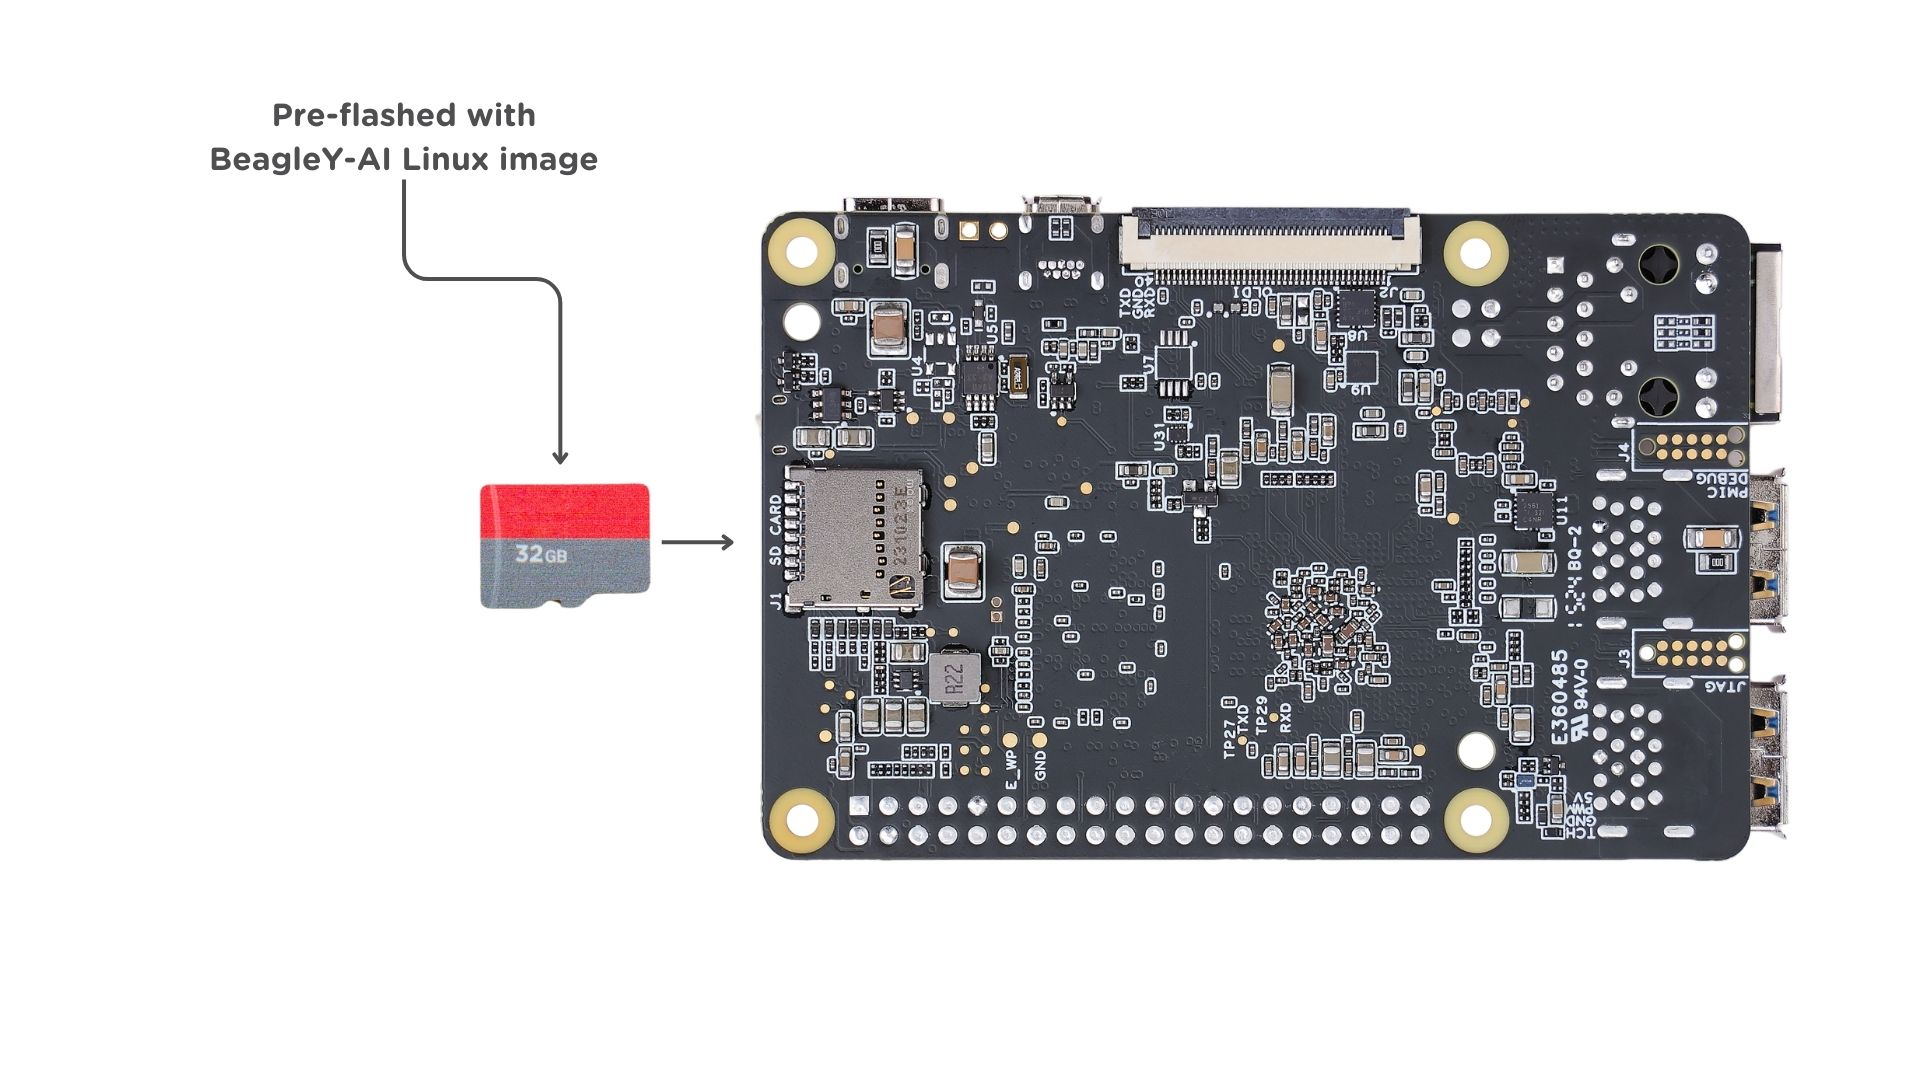
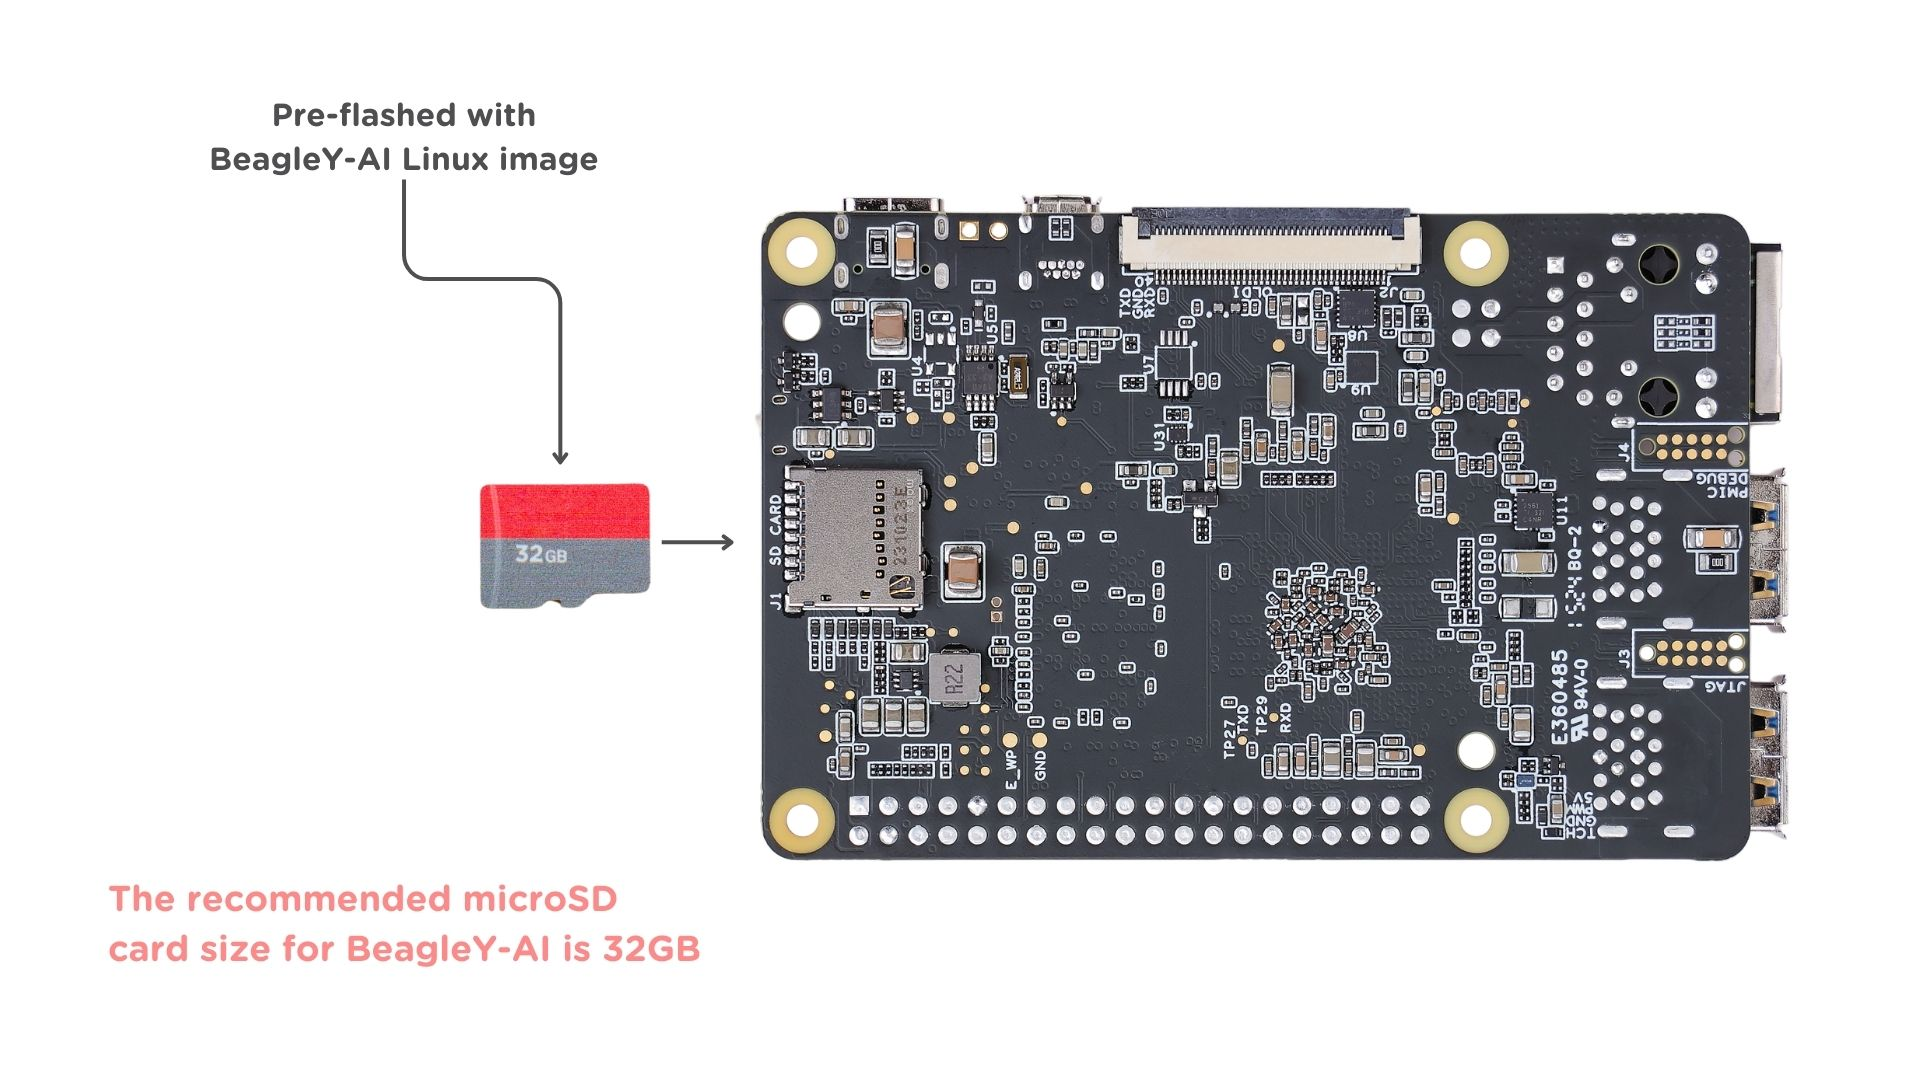
update getting started guide & add bb-imager usage instructions

Changed region(s): [[0.0625, 0.825, 0.375, 0.9167]]

diff --git a/boards/beagley/ai/02-quick-start.rst b/boards/beagley/ai/02-quick-start.rst
@@ -8,16 +8,13 @@ What's included in the box?
 
 When you purchase a BeagleY-AI, you'll get the following in the box:
 
-1. `BeagleY-AI <https://www.beagleboard.org/boards/beagley-ai>`_
-2. 2.4GHz antenna
-3. Quick-start card
-
-.. todo:: Attaching antennas instructions for BeagleY-AI
+1. `BeagleY-AI <https://www.beagleboard.org/boards/beagley-ai>`_ with attached antenna.
+2. Quick-start card
 
 .. todo:: BeagleY-AI unboxing video
 
 Getting started
-***************
+****************
 
 To get started your BeagleY-AI you need the following:
 
@@ -49,11 +46,135 @@ can provide 5V ≥ 3A. Checkout the :ref:`docs power supply page <accessories-po
 Boot Media (Software image)
 *****************************
 
-.. todo:: Update this section to use latest boot media (software image) for BeagleY-AI.
+We have two methods to prepare bootable microSD card,
 
-Download the boot media from
-`https://www.beagleboard.org/distros/beagley-ai-debian-12-5-2024-06-12-xfce <https://www.beagleboard.org/distros/beagley-ai-debian-12-5-2024-06-12-xfce>`_ 
-and flash it on a micro microSD card using using `Balena Etcher <https://etcher.balena.io/>`_ following these steps:
+1. :ref:`beagley-ai-bb-imager` 
+2. :ref:`beagley-ai-balena-etcher`
+
+.. _beagley-ai-bb-imager:
+
+bb-imager
+==========
+
+Download and install `bb-imager <https://beagley-ai.beagleboard.io/bb-imager>`_ for your operating system. 
+Below are all the steps required to create a bootable microSD card with latest/recommended OS image for BeagleY-AI.
+
+.. figure:: images/imager/step1-choose-device.*
+    :align: center
+    :alt: Click on ``CHOOSE DEVICE`` button
+
+    Click on ``CHOOSE DEVICE`` button
+
+.. figure:: images/imager/step2-choose-beagley-ai.*
+    :align: center
+    :alt: Choose ``BeagleY-AI`` board
+
+    Choose ``BeagleY-AI`` board
+
+.. figure:: images/imager/step3-choose-os.*
+    :align: center
+    :alt: Click on ``CHOOSE OS`` button
+
+    Click on ``CHOOSE OS`` button
+
+.. figure:: images/imager/step4-select-recommended-os.*
+    :align: center
+    :alt: Select ``Recommended OS``
+
+    Select ``Recommended OS``
+
+.. figure:: images/imager/step5-select-storage.*
+    :align: center
+    :alt: Click on ``CHOOSE STORAGE`` buddon
+
+    Click on ``CHOOSE STORAGE`` buddon
+
+.. figure:: images/imager/step6-choose-microsd-card.*
+    :align: center
+    :alt: Choose your microSD card
+
+    Choose your microSD card
+
+.. figure:: images/imager/step7-hit-next.*
+    :align: center
+    :alt: Click on ``Next`` button
+
+    Click on ``Next`` button
+
+.. figure:: images/imager/step8-edit-settings.*
+    :align: center
+    :alt: Click on ``EDIT SETTINGS`` button
+
+    Click on ``EDIT SETTINGS`` button
+
+.. figure:: images/imager/step9-settings-save.*
+    :align: center
+    :alt: Edit settings 
+
+    Edit settings
+
+.. figure:: images/imager/step9a-enable-ssh.*
+    :align: center
+    :alt: Under ``SERVICES`` you can enable SSH
+
+    Under ``SERVICES`` you can enable SSH
+
+.. figure:: images/imager/step9b-play-sound.*
+    :align: center
+    :alt: Under ``OPTIONS`` you can enable to play sound when flashing is finished
+
+    Under ``OPTIONS`` you can enable to play sound when flashing is finished
+
+.. figure:: images/imager/step10-select-yes.*
+    :align: center
+    :alt: Select ``YES`` to apply settings
+
+    Select ``YES`` to apply settings
+
+.. figure:: images/imager/step11-erase-data.*
+    :align: center
+    :alt: Select ``YES`` again to confirm sdCard formatting
+
+    Select ``YES`` again to confirm sdCard formatting
+
+.. figure:: images/imager/step12-authenticate.*
+    :align: center
+    :alt: Provide password to Authenticate the flashing process
+
+    Provide password to Authenticate the flashing process
+
+.. figure:: images/imager/step13-download-started.*
+    :align: center
+    :alt: Download image else automatically open cached image
+
+    Download image else automatically open cached image
+
+.. figure:: images/imager/step14-writing.*
+    :align: center
+    :alt: Writing data to microSD card
+
+    Writing data to microSD card
+
+.. figure:: images/imager/step15-verifying.*
+    :align: center
+    :alt: Verifying flashed microSD card
+
+    Verifying flashed microSD card
+
+.. figure:: images/imager/step16-sdcard-ready.*
+    :align: center
+    :alt: microSD card is ready
+
+    microSD card is ready
+
+.. _beagley-ai-balena-etcher:
+
+Balena Etcher
+==============
+
+Download and install `Balena Etcher <https://etcher.balena.io/>`_ and then download the boot media from
+`https://www.beagleboard.org/distros/beagley-ai-debian-12-5-2024-06-12-xfce <https://www.beagleboard.org/distros/beagley-ai-debian-12-5-2024-06-12-xfce>`_. 
+Flash it on a microSD card using `Balena Etcher <https://etcher.balena.io/>`_ following the steps below:
 
 1. Select downloaded boot media
 2. Select microSD card 
@@ -104,9 +225,11 @@ In ``sysconf.txt`` file you have to edit the two lines highlighted below.
 
         <2> If ``bash`` is your password, update ``#user_password=FooBar`` to ``user_password=bash``
 
-.. note:: 
-    Make sure to remove ``#`` from in front of these lines else the lines will still be 
-    interpreted like a comment and your username & password will not be updated.
+.. important::
+    
+    1. Make sure to remove ``#`` from ``#user_name=`` and ``#user_password=`` else the lines will be interpreted as a comment and your username & password will not be updated.
+    2. If you do not change your username and passord here then you will not see any output on your HDMI monitor when you do a :ref:`standalone-connection` setup.
+
 
 Once username and password are updated, you can insert the microSD card into 
 your BeagleY-AI as shown in the image below:
@@ -152,7 +275,9 @@ or command prompt (`Windows <https://www.wikihow.com/Open-the-Command-Prompt-in-
     
     ssh debian@192.168.7.2
 
-.. tip:: If you are not able to find your beagle at ``192.168.7.2`` make sure to checkout :ref:`start-browse-to-beagle` to resolve your connection issue.
+.. important:: Here ``debian`` is the default username, make sure to replace ``debian`` with the ``username`` you selected during :ref:`beagley-ai-boot-media` prepration step.
+
+.. tip:: If you are not able to find your beagle at ``192.168.7.2``, checkout :ref:`start-browse-to-beagle` to resolve your connection issue.
 
 .. important:: If you have not updated your default username and password during :ref:`beagley-ai-boot-media`, you must update the default password at this step to something safer.
 
@@ -161,6 +286,8 @@ or command prompt (`Windows <https://www.wikihow.com/Open-the-Command-Prompt-in-
     :alt: BeagleY-AI SSH connection
 
     BeagleY-AI SSH connection
+
+.. _beagley-ai-uart-connection:
 
 UART connection
 ================
@@ -192,14 +319,24 @@ try out all the :ref:`cool demos <beagley-ai-demos>` and explore all the other w
 Headless connection
 ===================
 
-If you want to run your BeagleY-AI in headless mode, you need `Raspberry Pi Debug Probe <https://www.raspberrypi.com/documentation/microcontrollers/debug-probe.html>`_ or similar serial adapter.
+If you want to run your BeagleY-AI in headless mode, you need `Raspberry Pi Debug Probe <https://www.raspberrypi.com/documentation/microcontrollers/debug-probe.html>`_ 
+or similar serial (USB to UART) adapter. Connect your UART debug probe to BeagleY-AI as shown in the image below. After making the connection you can use command 
+line utility like ``tio`` on Linux of Putty on any operating system. Check :ref:`beagley-ai-uart-connection` for more information.
 
-.. todo:: Add images and description for this section.
+.. figure:: images/uart/rpi-debug-probe-connection.*
+    :align: center
+    :alt: Connecting Raspberry Pi debug probe to BeagleY-AI
+
+    Connecting Raspberry Pi debug probe to BeagleY-AI
 
 .. _standalone-connection:
 
 Standalone connection
 =====================
+
+.. important:: 
+    Make sure to update your ``username`` and ``password`` during 
+    :ref:`beagley-ai-boot-media` prepration step else you'll not see any output on you HDMI monitor.
 
 To setup your BeagleY-AI for standalone usage, you need the following additional accessories,
 
@@ -230,7 +367,7 @@ If everything is connected properly you should see four penguins on your monitor
 
     BeagleY-AI boot penguins
 
-When prompted, log in using the updated login credentials you updated during the USB tethering step.
+When prompted, login using the credentials you updated during :ref:`beagley-ai-boot-media` prepration step.
 
 .. Important:: You can not update login credentials at this step, you must update them during boot media (software image) micrSD card flashing or USB tethering step!
 
@@ -248,7 +385,7 @@ Once logged in you should see the splash screen shown in the image below:
 
     BeagleY-AI XFCE home screen
 
-Test network connection by running ping 8.8.8.8
+Test network connection by running ``ping 8.8.8.8``
 
 .. figure:: images/ping-test.*
     :align: center
@@ -269,6 +406,7 @@ Explore and build with your new BeagleY-AI board!
 Connecting to WiFi
 **********************
 
+The onboard ``BM3301`` can connect to any 2.5GHz wifi access point. 
 We have two options to connect to WiFi,
 
 1. :ref:`beagley-ai-nmtui`
@@ -357,10 +495,20 @@ Once board is fully booted and you have access to the shell, follow the commands
     
     ping 8.8.8.8
 
-Attach fan
-***********
+Attach cooling fan
+*******************
 
-.. todo:: add instructions to attach raspberrypi official fan.
+To attached the Raspberry Pi cooling fan to BeagleY-AI you have to follow these steps,
+
+1. Clean the surface of BeagleY-AI with a microfiber cloth or electronics safe cleaning brush.
+2. Gently pull the pre-cut (blue) thermal pads from cooling fan surface and transfer them to the most heating parts of BegleY-AI like CPU and RAM.
+3. Connect the fan cable, then carefully place the flat part of cooling fan on BeagleY-AI. Now, gently apply force on spring loaded push pins to securely attach the cooling fan.
+
+.. figure:: images/fan/fan-connection.*
+    :align: center
+    :alt: Attaching cooling fan to BeagleY-AI
+
+    Attaching cooling fan to BeagleY-AI
 
 Demos and Tutorials
 *******************
